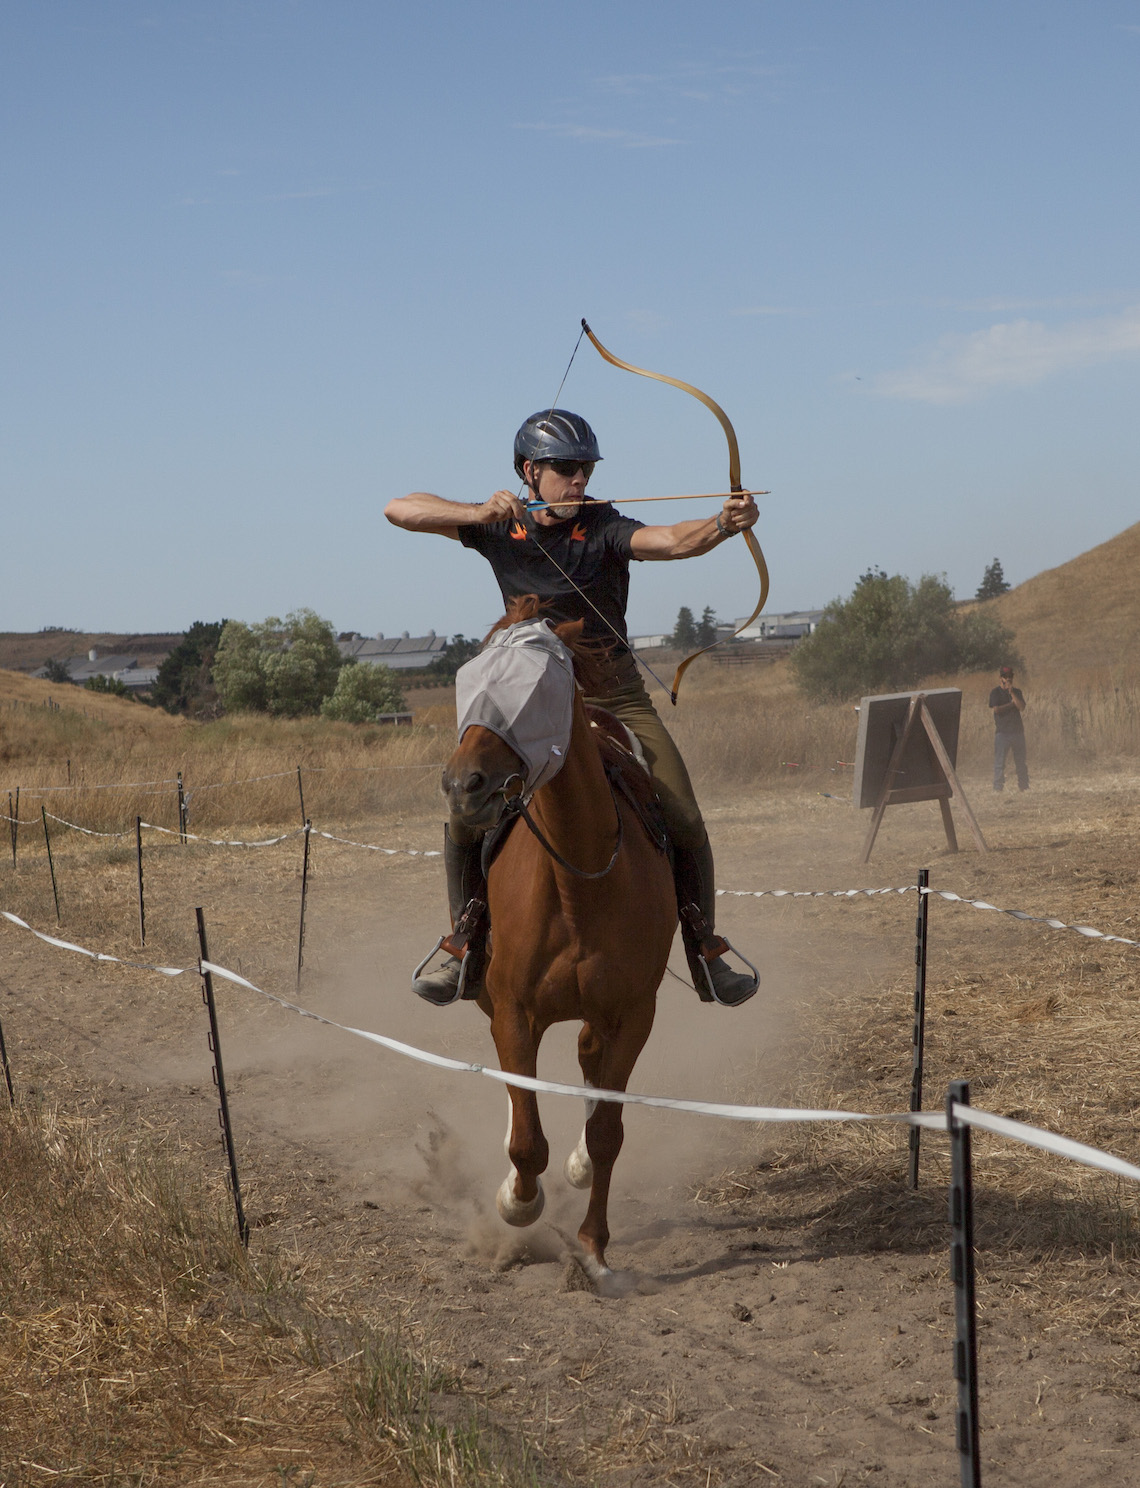
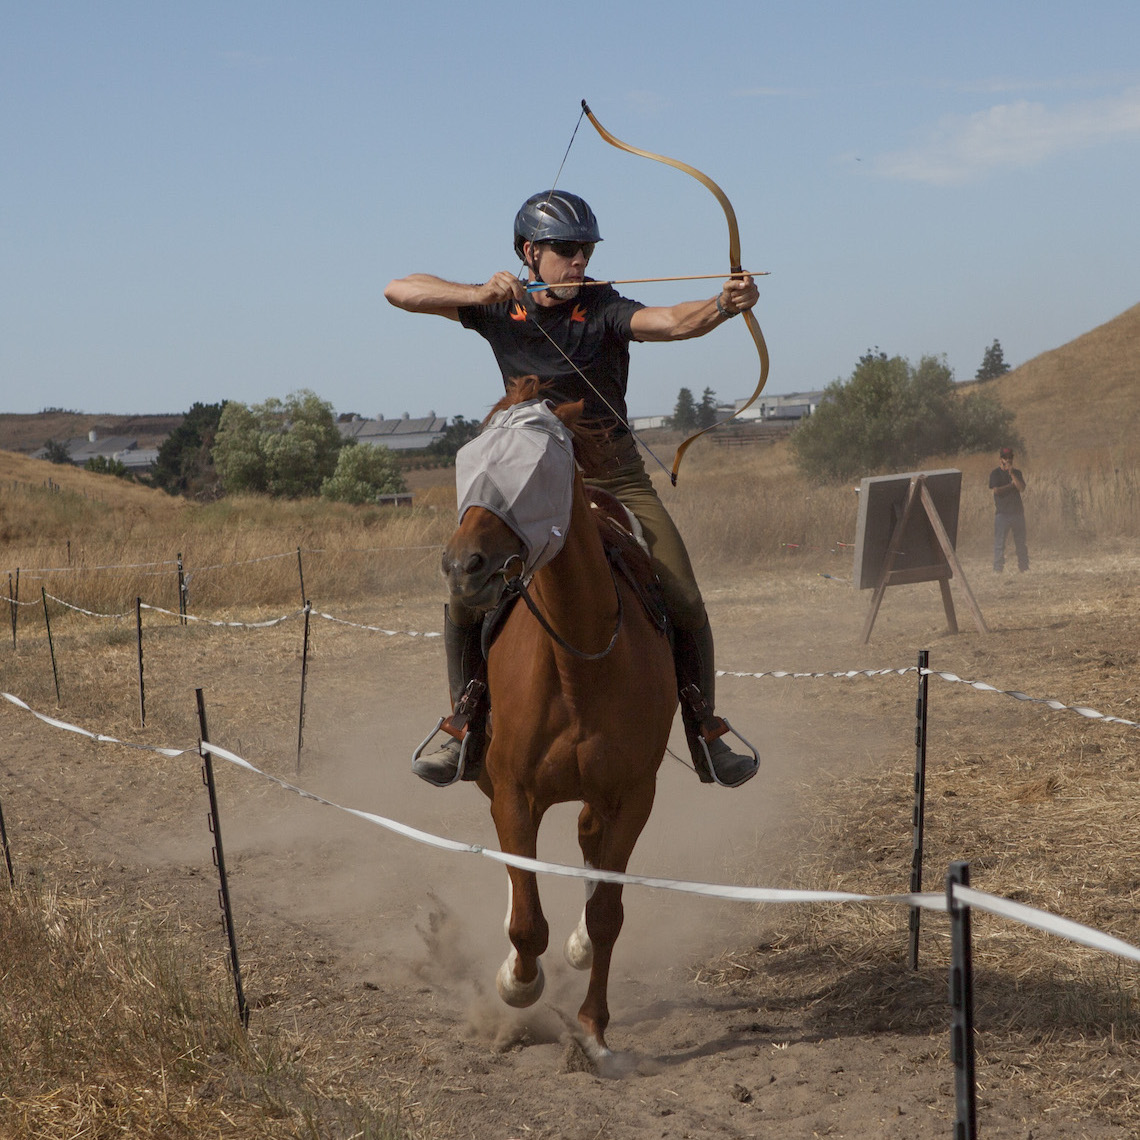
Square-ify homepage images + mobile hero

diff --git a/index.html b/index.html
@@ -13,7 +13,7 @@ layout: default
       </div>
     </div>
     <div class="visible-phone-block">
-      <img src="img/home-centaurs-desi-1.jpg">
+      <img src="img/home-centaurs-desi-square.jpg">
     </div>
   </div>
 
